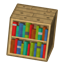
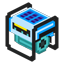
v1.2 build 03 zmiana ikon usuniecie odpalenia prosto na serwer

diff --git a/src/org/bitbucket/cptshooter/shooterpack/Minecraft.java b/src/org/bitbucket/cptshooter/shooterpack/Minecraft.java
@@ -118,7 +118,7 @@ public class Minecraft{
     
     public String[] createCMD(){
         //http://s3.amazonaws.com/Minecraft.Download/versions/1.6.4/1.6.4.json
-        String[] cmd = new String[17];
+        String[] cmd = new String[15];
         cmd[0] = PATH_TO_JAVA;
         cmd[1] = JAVA_OPT;
         cmd[2] = JAVA_PARAMETERS[0];
@@ -138,8 +138,8 @@ public class Minecraft{
         cmd[12] = "--gameDir="+GAME_DIRECTORY;
         cmd[13] = "--assetsDir="+ASSETS_DIRECTORY;
         cmd[14] = "--tweakClass=cpw.mods.fml.common.launcher.FMLTweaker";
-        cmd[15] = "--server="+SERVER_IP;
-        cmd[16] = "--port="+SERVER_PORT;
+//        cmd[15] = "--server="+SERVER_IP;
+//        cmd[16] = "--port="+SERVER_PORT;
         return cmd;        
     }
 }

diff --git a/src/org/bitbucket/cptshooter/shooterpack/Main.java b/src/org/bitbucket/cptshooter/shooterpack/Main.java
@@ -24,7 +24,7 @@ import org.bitbucket.cptshooter.shooterpack.admin.Panel;
 public class Main extends javax.swing.JFrame {
 
     public static final String VERSION = "1.2";
-    public static final String BUILD = "01";
+    public static final String BUILD = "03";
     
     public static String packDestination = System.getenv("APPDATA")+"\\.UncraftedPack";
     
